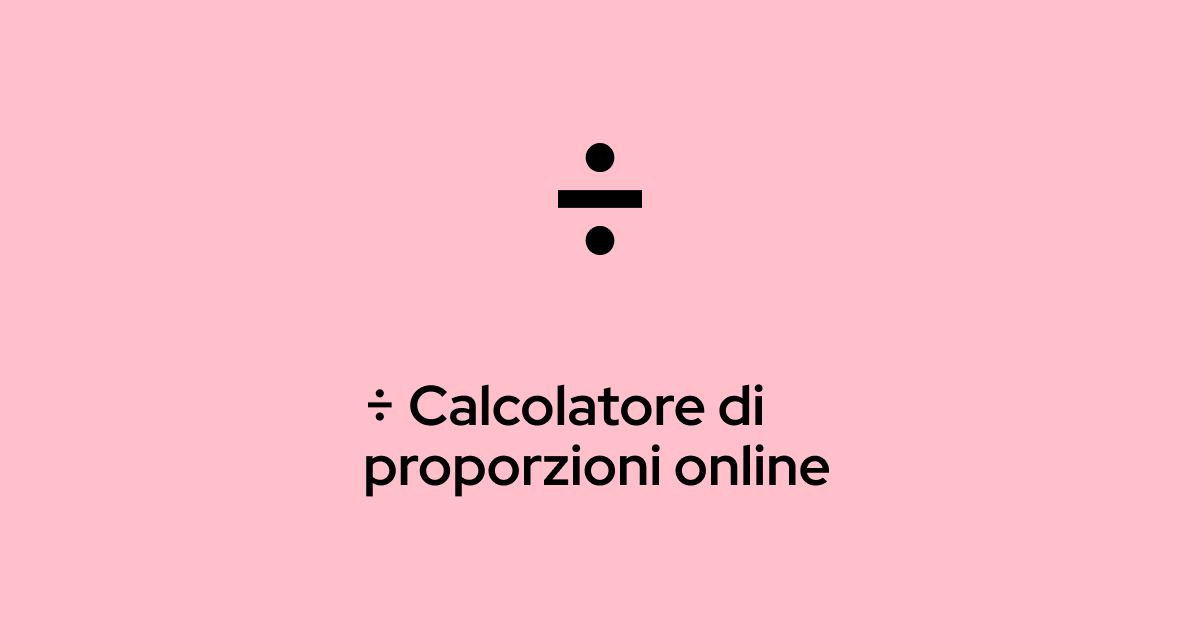
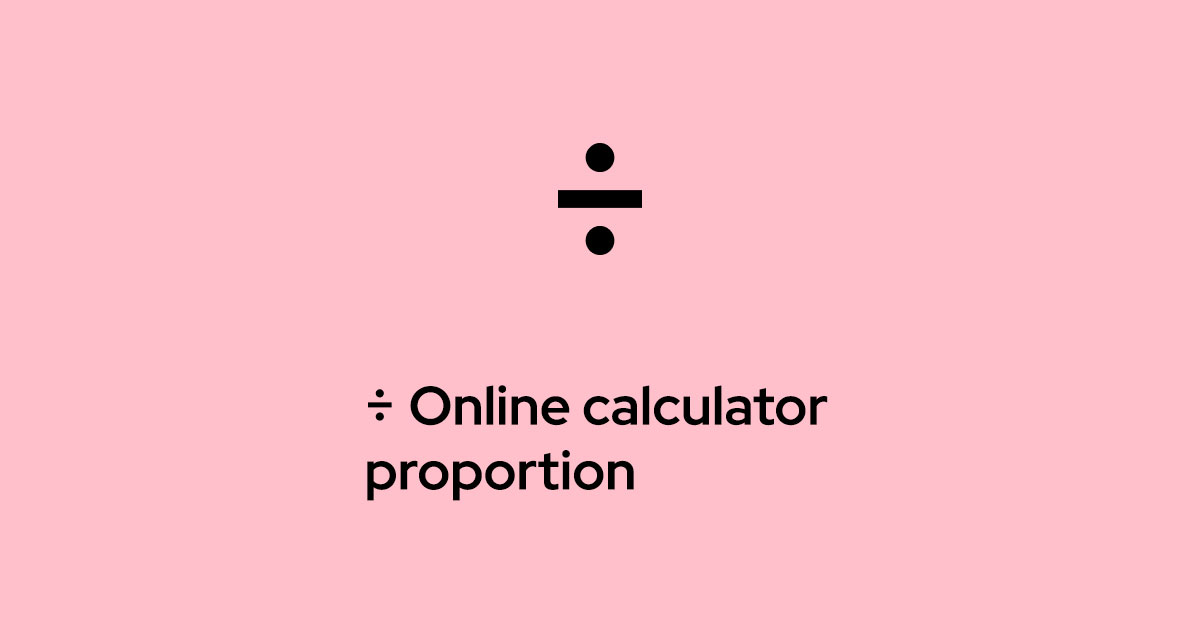
Add EN

Changed region(s): [[0.3083, 0.6032, 0.7092, 0.7841]]

diff --git a/ita.html b/ita.html
@@ -6,10 +6,10 @@
     <meta http-equiv="Cache-Control" content="public, max-age=86400" />
     <meta http-equiv="Expires" content="Tue, 01 Jan 2030 00:00:00 GMT" />
 
-    <title>÷ Online calculator proportion</title>
-    <meta name="description" content="Simple and sparkling mathematical calculation tool. Enter the values and calculate your proportion." />
+    <title>÷ Calcolatore di proporzioni online</title>
+    <meta name="description" content="Strumento di calcolo matematico semplice ed effervescente. Inserisci i valori e calcola la tua proporzione." />
 
-    <meta name="keywords" content="proportions, calculation, division, multiplication, operation" />
+    <meta name="keywords" content="proporzioni, calcolo, divisione, moltiplicazione, operazione" />
     <meta name="author" content="Marco Gargano" />
     <meta name="theme-color" content="#ffc0cb" />
 
@@ -21,9 +21,9 @@
 
     <meta property="og:url" content="https://calcola-proporzione.github.io/" />
     <meta property="og:type" content="website" />
-    <meta property="og:title" content="÷ Online calculator proportion" />
-    <meta property="og:description" content="Simple and sparkling mathematical calculation tool. Enter the values and calculate your proportion." />
-    <meta property="og:image" content="https://calcola-proporzione.github.io/img/calcola-proporzione-share.jpg" />
+    <meta property="og:title" content="÷ Calcolatore di proporzioni online" />
+    <meta property="og:description" content="Strumento di calcolo matematico semplice ed effervescente. Inserisci i valori e calcola la tua proporzione." />
+    <meta property="og:image" content="https://calcola-proporzione.github.io/img/calcola-proporzione-share-it.jpg" />
 
     <link rel="stylesheet" href="/css/style-bs.css?v=1.1" />
     <link rel="stylesheet" href="/css/style.css?v=1.2" />
@@ -34,7 +34,7 @@
       <div class="row">
         <div class="col pt-3">
           <div class="btn-group">
-            <a href="/" class="d-flex align-items-center btn btn-outline-light px-3 fs-6 active" aria-current="page">
+            <a href="/" class="d-flex align-items-center btn btn-outline-light text-black px-3 fs-6">
               <svg class="me-2" height="12" xmlns="http://www.w3.org/2000/svg" id="flag-icons-gb" viewBox="0 0 640 480">
                 <path fill="#012169" d="M0 0h640v480H0z"></path>
                 <path fill="#FFF" d="m75 0 244 181L562 0h78v62L400 241l240 178v61h-80L320 301 81 480H0v-60l239-178L0 64V0z"></path>
@@ -44,7 +44,7 @@
               </svg>
               ENG</a
             >
-            <a href="/ita.html" class="d-flex align-items-center btn btn-outline-light text-black px-3 fs-6">
+            <a href="/ita.html" class="d-flex align-items-center btn btn-outline-light px-3 fs-6 active" aria-current="page">
               <svg class="me-2" height="12" xmlns="http://www.w3.org/2000/svg" id="flag-icons-it" viewBox="0 0 640 480">
                 <g fill-rule="evenodd" stroke-width="1pt">
                   <path fill="#fff" d="M0 0h640v480H0z"></path>
@@ -62,8 +62,8 @@
     <div class="container-sm woila" role="main">
       <div class="row">
         <div class="col mt-5 pt-5">
-          <h1 class="badge rounded-pill text-bg-light bg-opacity-50 mb-3 text-uppercase fs-6"><small>Calculate proportion</small></h1>
-          <h2 class="h1 lh-1">÷ Online calculator proportion</h2>
+          <h1 class="badge rounded-pill text-bg-light bg-opacity-50 mb-3 text-uppercase fs-6"><small>Calcola proporzione</small></h1>
+          <h2 class="h1 lh-1">÷ Calcolatore di proporzioni online</h2>
         </div>
       </div>
     </div>
@@ -104,21 +104,22 @@
     <div class="container-sm mt-5 mb-4 woila woila-2">
       <div class="row">
         <div class="col">
-          <h3 class="fs-5"><strong>Simple and sparkling mathematical calculation tool.</strong></h3>
-          <p class="">Enter the values and calculate your proportion using the formula <code class="text-nowrap">a&#58;b&#61;c&#58;d</code>, for example <code class="text-nowrap">4&#58;3&#61;100&#58;X</code> &#8658; <code class="text-nowrap">X&#61;(3&times;100)/4</code>.</p>
+          <h3 class="fs-5"><strong>Strumento di calcolo matematico semplice ed effervescente.</strong></h3>
+          <p class="">Inserisci i valori e calcola la tua proporzione con la formula <code class="text-nowrap">a&#58;b&#61;c&#58;d</code>, come per esempio <code class="text-nowrap">4&#58;3&#61;100&#58;X</code> &#8658; <code class="text-nowrap">X&#61;(3&times;100)/4</code>.</p>
         </div>
       </div>
     </div>
     <div class="container-sm my-5 woila woila-3" role="contentinfo">
+      <!-- <hr class="container-sm mb-5 w-25 border-0 opacity-75"> -->
       <div class="row">
         <div class="col">
           <details class="p-3 rounded-3 px-4 mb-3 bg-primary bg-opacity-10">
-            <summary>What is a proportion? Here is a definition...</summary>
-            <p class="mt-4">In mathematics, a proportion is <strong>the equality between two ratios</strong>. In other words, it is a relation that establishes an equivalence between four quantities, called terms, which are proportional to each other.</p>
-            <p>The fundamental property of proportions states that <strong>the product of the means is equal to the product of the extremes</strong>.</p>
+            <summary>Cosa è una proporzione? Di seguito una definizione...</summary>
+            <p class="mt-4">In matematica, una proporzione è <strong>l'uguaglianza tra due rapporti</strong>. In altre parole, è una relazione che stabilisce un'equivalenza tra quattro grandezze, dette termini, che sono tra loro proporzionali.</p>
+            <p>La proprietà fondamentale delle proporzioni afferma che <strong>il prodotto dei medi è uguale al prodotto degli estremi</strong>.</p>
             <p>
-              If <code><strong>a&#58;b&#61;c&#58;d</strong></code
-              >, then <code><strong>a&times;d&#61;b&times;c</strong></code
+              Se <code><strong>a&#58;b&#61;c&#58;d</strong></code
+              >, allora <code><strong>a&times;d&#61;b&times;c</strong></code
               >.
             </p>
           </details>
@@ -127,9 +128,9 @@
       <div class="row">
         <div class="col">
           <details class="p-3 rounded-3 px-4 mb-3 bg-primary bg-opacity-10">
-            <summary>How do you calculate a proportion? Here is an example...</summary>
-            <p class="mt-4">A <strong>practical case</strong>: we have an image 100 cm wide and we need to calculate the height, proportional to 4:3; how tall will the image be?</p>
-            <p class="mb-1">To calculate it we should perform the following operations:</p>
+            <summary>Come si calcola una proporzione? Di seguito un esempio...</summary>
+            <p class="mt-4">Un <strong>caso pratico</strong>: abbiamo un'immagine larga 100 cm e dobbiamo calcolare l'altezza, proporzionale a 4:3; quanto sarà alta l'immagine?</p>
+            <p class="mb-1">Per calcolarlo dovremmo effettuare le seguenti operazioni:</p>
             <ul>
               <li>
                 <code class="text-nowrap">4&#58;3&#61;100&#58;<strong>X</strong></code>
@@ -141,19 +142,19 @@
                 <code class="text-nowrap"><strong>X</strong>&#61;75</code>
               </li>
             </ul>
-            <p>Therefore the image will be 75 cm tall.</p>
-            <p class="mb-1">In mathematics, considering the proportion: <code class="text-nowrap">4&#58;3&#61;100&#58;75</code></p>
+            <p>Quindi l'immagine sarà alta: 75 cm.</p>
+            <p class="mb-1">In matematica, considerando la proporzione: <code class="text-nowrap">4&#58;3&#61;100&#58;75</code></p>
             <ul>
               <li>
-                the <strong>product of the means</strong> is: <code class="text-nowrap">3&times;100&#61;<strong>300</strong></code>
+                il <strong>prodotto dei medi</strong> è: <code class="text-nowrap">3&times;100&#61;<strong>300</strong></code>
               </li>
               <li>
-                the <strong>product of the extremes</strong> is: <code class="text-nowrap">4&times;75&#61;<strong>300</strong></code>
+                il <strong>prodotto degli estremi</strong> è: <code class="text-nowrap">4&times;75&#61;<strong>300</strong></code>
               </li>
             </ul>
             <p>
-              Since the two products are <strong>equal</strong> to <code><strong>300</strong></code
-              >, the proportion is valid!
+              Poiché i due prodotti sono <strong>uguali</strong> a <code><strong>300</strong></code
+              >, la proporzione è valida!
             </p>
           </details>
         </div>
@@ -161,7 +162,7 @@
     </div>
     <div class="container-sm my-3 woila woila-3">
       <p class="text-primary fs-6">
-        No cookies are used and no data is collected in order to respect privacy.
+        Non si utilizzano cookies e nessun dato viene raccolto per rispettare la privacy.
 
         <a class="float-end ms-2 opacity-75" aria-label="GitHub Homepage" href="https://github.com/Calcola-Proporzione/calcola-proporzione.github.io" target="_blank">
           <svg aria-hidden="true" height="24" viewBox="0 0 24 24" version="1.1" width="20" data-view-component="true" class="octicon octicon-mark-github">
@@ -173,6 +174,6 @@
       </p>
     </div>
     <script defer src="/js/confetti.min.js?v=1.0"></script>
-    <script defer src="/js/calcolo.js?v=1.0"></script>
+    <script defer src="/js/calcolo-it.js?v=1.0"></script>
   </body>
 </html>

diff --git a/js/calcolo-it.js b/js/calcolo-it.js
@@ -6,7 +6,7 @@ document.addEventListener("DOMContentLoaded", () => {
   const bInput = form.querySelector("[name='y1']"); // b
   const cInput = form.querySelector("[name='y2']"); // c
   const dInput = form.querySelector("[name='x2']"); // d
-  const output = form.querySelector(".risultato"); // risultato
+  const output = form.querySelector(".risultato");  // risultato
 
   if (!aInput || !bInput || !cInput || !dInput || !output) return;
 
@@ -26,11 +26,11 @@ document.addEventListener("DOMContentLoaded", () => {
     const d = parseFloat(dInput.value);
 
     const valori = [a, b, c, d];
-    const vuoti = valori.filter((v) => !isFinite(v)).length;
+    const vuoti = valori.filter(v => !isFinite(v)).length;
 
     // Deve esserci esattamente un valore vuoto
     if (vuoti !== 1) {
-      output.textContent = vuoti === 0 ? "❌ Warning, too many values have been entered." : "Enter 3 values, the 4th will be calculated.";
+      output.textContent = vuoti === 0 ? "❌ Attenzione, sono stati impostati troppi valori." : "Inserisci 3 valori, il 4° verrà calcolato.";
       return;
     }
 
@@ -56,21 +56,21 @@ document.addEventListener("DOMContentLoaded", () => {
 
     const risultatoPulito = parseFloat(risultato.toFixed(5));
     inputVuoto.value = risultatoPulito;
-    output.textContent = "🎉 Proportion calculated!!!";
-
+    output.textContent = "🎉 Proporzione calcolata!!!";
+    
     // Aggiungi listener prima di disabilitare
-    [aInput, bInput, cInput, dInput].forEach((input) => {
-      const handler = function (e) {
+    [aInput, bInput, cInput, dInput].forEach(input => {
+      const handler = function(e) {
         e.preventDefault();
         input.disabled = false;
-        input.value = "";
-        output.textContent = "To calculate again, clear at least 2 values.";
+        input.value = '';
+        output.textContent = 'Per calcolare nuovamente, cancella almeno 2 valori.';
         setTimeout(() => input.focus(), 0);
-        input.removeEventListener("pointerdown", handler, true);
+        input.removeEventListener('pointerdown', handler, true);
       };
-      input.addEventListener("pointerdown", handler, true);
+      input.addEventListener('pointerdown', handler, true);
     });
-
+    
     // Disabilita tutti gli input
     aInput.disabled = true;
     bInput.disabled = true;
@@ -80,7 +80,7 @@ document.addEventListener("DOMContentLoaded", () => {
 
   // Ricalcolo con debounce di 1 secondo
   let timeoutId;
-  [aInput, bInput, cInput, dInput].forEach((input) =>
+  [aInput, bInput, cInput, dInput].forEach(input =>
     input.addEventListener("input", () => {
       clearTimeout(timeoutId);
       timeoutId = setTimeout(calcolaProporzione, 1000);
@@ -91,17 +91,17 @@ document.addEventListener("DOMContentLoaded", () => {
   let previousResult = output.textContent;
   const observer = new MutationObserver(() => {
     const currentResult = output.textContent;
-    if (currentResult !== previousResult && currentResult === "🎉 Proportion calculated!!!") {
+    if (currentResult !== previousResult && currentResult === "🎉 Proporzione calcolata!!!") {
       const rect = output.getBoundingClientRect();
-      const event = new MouseEvent("click", {
+      const event = new MouseEvent('click', {
         clientX: rect.left + rect.width / 2,
-        clientY: rect.top + rect.height / 2,
+        clientY: rect.top + rect.height / 2
       });
       output.dispatchEvent(event);
     }
     previousResult = currentResult;
   });
-
+  
   observer.observe(output, { childList: true, characterData: true, subtree: true });
 
   // Pulsante reset
@@ -116,7 +116,7 @@ document.addEventListener("DOMContentLoaded", () => {
       bInput.disabled = false;
       cInput.disabled = false;
       dInput.disabled = false;
-      output.textContent = "Enter 3 values, the 4th will be calculated.";
+      output.textContent = "Inserisci 3 valori, il 4° verrà calcolato.";
     });
   }
 
